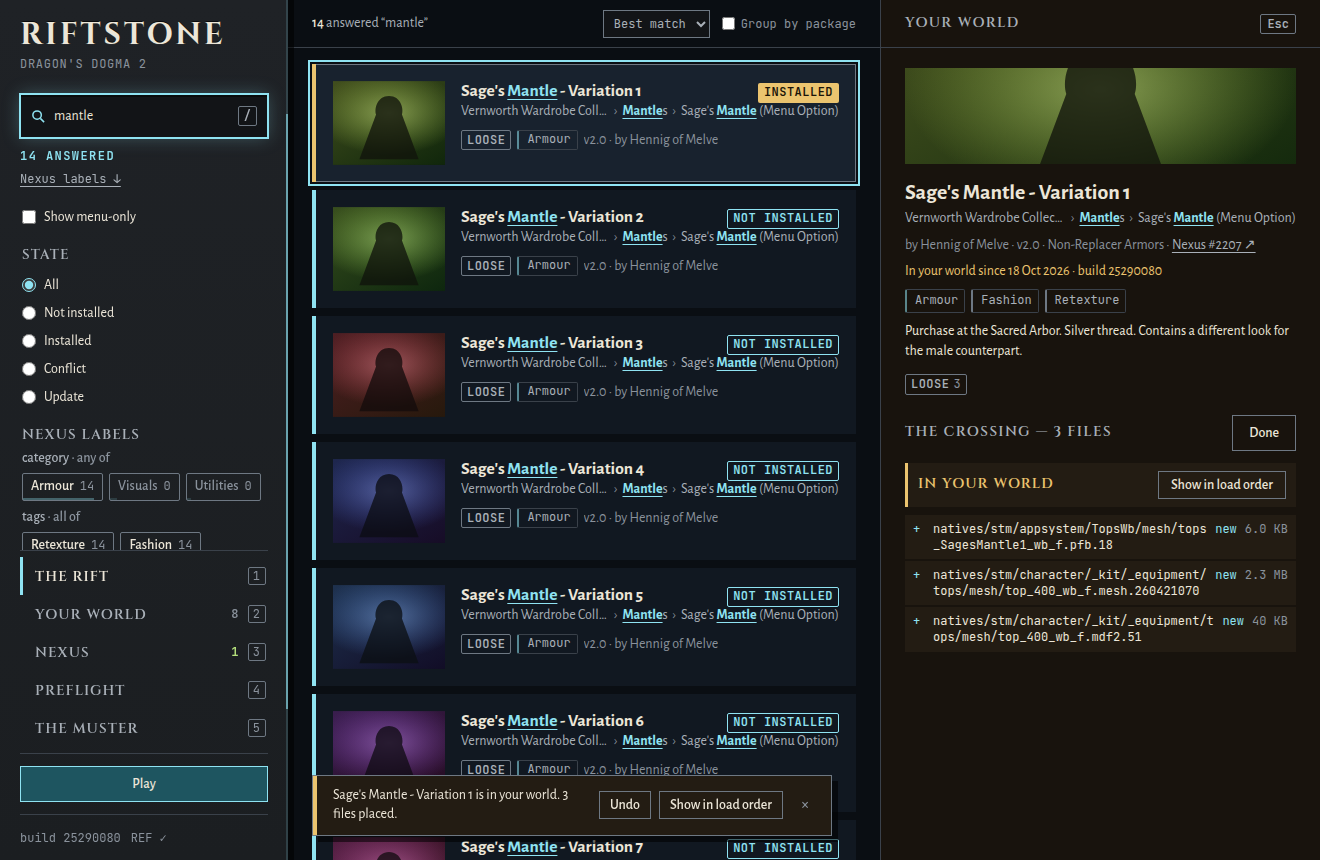
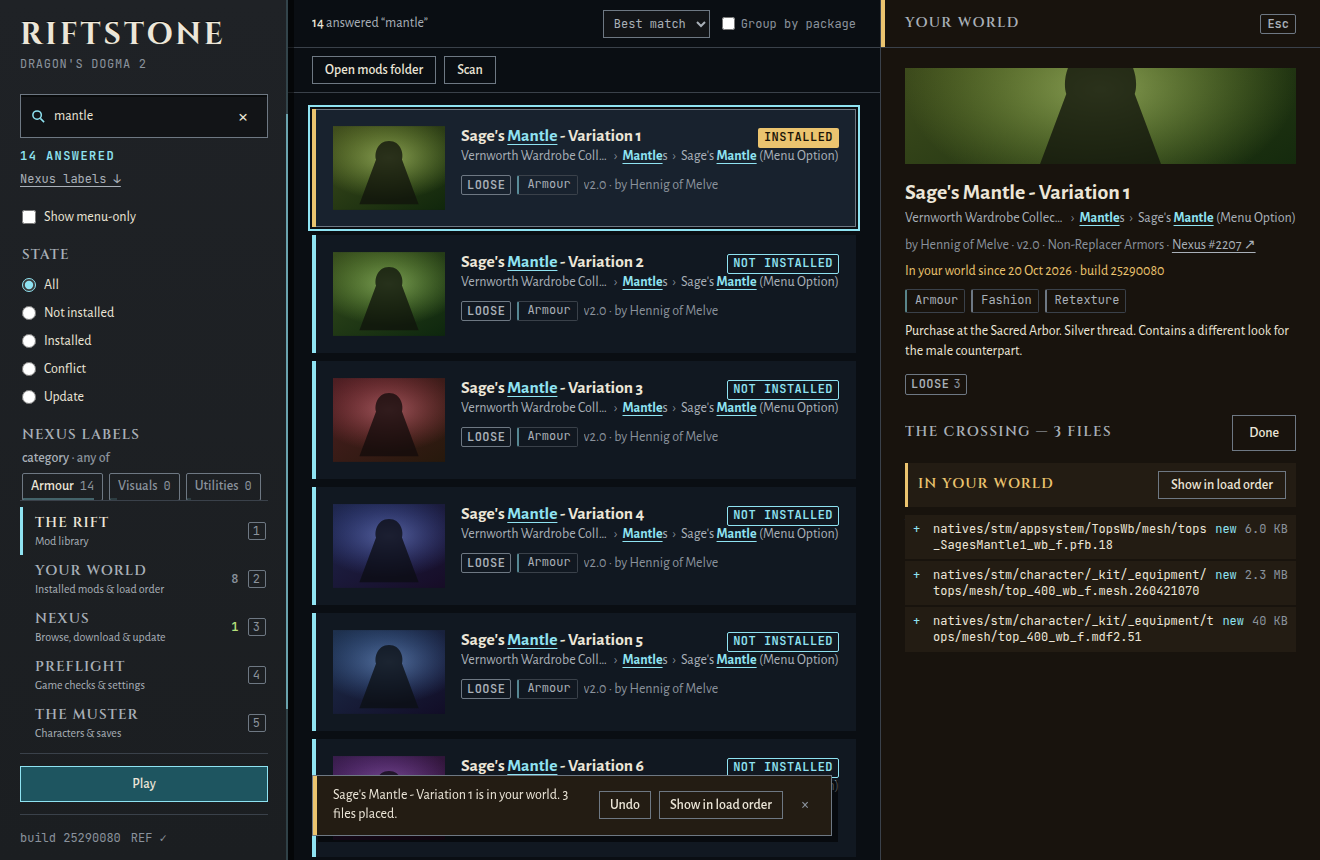
docs(riftstone): the Heretic's library tools join the window contract by the investor's ruling, round 2 is written down, and all nine README frames are shot again on the combined head
The investor ruled that the Heretic's 43652f1 features stay on v0.5, so the
contract catches up here. The General's seat holds the docs pen on this side and
the code on the Heretic's.

- WINDOW-CONTRACT § v0.5 gains "The Rift's library tools and filters, and
  answers in flight (window only)": the rooms' plain lines, Clear search, Open
  mods folder and Scan (the § v0.3 commands), the active-filter line and Clear
  filters keeping the query, NO MODS MATCH THESE FILTERS (state and menu-only;
  the labels keep THE LABELS HIDE EVERY ANSWER), the viewer's keys whatever holds
  the focus, and the selection rule, including a return to the same option before
  its write finishes. The Heretic read the rows against its code and sent four
  corrections, all applied. Following, in the Muster's rules, now names the
  slot that opens.
- BUILD-SPEC § v0.5 records the Heretic's pass (its open RS-A2 named), its
  round-2 fix 75ebf56, and the frames.
- README: all nine frames shot again from the mock (1320 × 860, 0 page errors,
  each looked at), since every one shows the pillar. Two alt texts name what is
  new in them.

Claude-Session: https://claude.ai/code/session_013U6VVnRmC24Bs8jAfqjsEu

diff --git a/docs/BUILD-SPEC.md b/docs/BUILD-SPEC.md
@@ -2703,13 +2703,43 @@ against the code they had left, and fixed what those specs found.
   threads resolved, and the specs for issues 1, 3 and 4 went red when their fixes were reverted.
   Three issues and one nit were left; two issues are on the Heretic's `43652f1` (the
   `useWorld` landing that returns before its detail reloads, and the lightbox's keys once focus
-  leaves it) and are the Heretic's to fix. Mine:
+  leaves it) and are the Heretic's, fixed in `75ebf56`: a return to the same option before its
+  write finishes now refreshes that option's detail without reviving the earlier plan, and the
+  viewer takes its keys whatever holds the focus, a click on the picture keeping it inside.
+  Four new checks in `roundTwoRegressions.spec.ts` failed at `43652f1`; a fifth, Esc with THE
+  VERSIONS card under the viewer, was already right and stays as a control. Mine:
   - **Round 1's family order was half fixed.** With X (uploaded 50), A (uploaded 100, which named
     B newer) and B (no upload time), recency gave A, X, B; A waited on B, so X went first and
     the oldest led. The order now lifts a named member's recency to its namer's, up a chain of
     proofs, before it sorts, so the pair sits together and the pass only settles ties. The
-    General's case and a three-step chain each failed at `43652f1`.
+    General's case and a three-step chain each failed at `43652f1`. Asked about cycles (two
+    checks at different times can name each other newer), two- and three-member cycles were
+    specced over every ordering of the input. The lift ends: it runs at most once per member and
+    only raises a member to a recency some member already has. The three-member cycle caught a
+    flaw in the pass: with every cycle member waiting on another, an older outsider went first.
+    The pass now runs one group of equal lifted recency at a time, so a cycle falls back to its
+    sorted order inside its own group, the same however the members are given.
   - **Nit: the lone shared name still asked for two packages that each hold only the same
     `config.json`.** The lone-name clause now counts only a name that is no settings or text
     file, so a one-pak or one-script mod's other version still asks. Its assertion failed
-    against the old clause.
+    against the old clause. The spine, the mock and WINDOW-CONTRACT each name the list, and
+    `settingsExtensions.spec.ts` reads all three and fails when they differ (seen failing on a
+    spine list missing one extension).
+- **The Heretic's usability pass** (`43652f1`, 2026-10-20, from its whole-app Assay at the lab
+  root, `documents/assessments/2026-10-20-riftstone.md`). The investor ruled it stays on v0.5
+  rather than splitting off. Window only: no command, event or type, and the library actions call
+  `open_mods_folder` and `rescan`. Each room in the pillar carries a plain line under its name.
+  The search well gains `Clear search`, and the Rift's answers gain `Open mods folder` and `Scan`,
+  a line reading the active filters with `Clear filters` (the query kept), and `NO MODS MATCH
+  THESE FILTERS` in place of an empty list. The screenshot viewer keeps the keyboard, and an
+  option's detail, plan and landing draw only on the selection that asked
+  (WINDOW-CONTRACT § v0.5, The Rift's library tools). Specs: `selectionLifetime.spec.ts` and
+  `libraryUsability.spec.ts`. The Assay's finding RS-A2 stays open in Known Limitations: a
+  collision rename moves the package before `nexus.json` saves its new id, so a failed save
+  loses a joined folder's family after a restart.
+- **The README frames, round 2** (2026-10-20): all nine shot again from the mock at 1320 × 860
+  on the combined head (`c69dba5` with the docs), 0 page errors each, and each looked at. Every
+  frame shows the pillar's new room lines; the Rift's frames show `Open mods folder` and `Scan`,
+  and the two search frames the `×` in the well. One thing the frames show that no spec states:
+  at 860 px the pillar's taller rooms push the Nexus tags below the fold of the filter column, so
+  only the categories show without a scroll.

diff --git a/docs/WINDOW-CONTRACT.md b/docs/WINDOW-CONTRACT.md
@@ -839,7 +839,46 @@ one character, and the slot menu tells their saves apart by level and time.
   `musterCharacter`, which is null too.
 - The window groups the slots by `character`, newest save first. A slot that would not open is
   listed apart, under its problem. The slot menu holds the character's slots, newest first.
-  - **Following:** on the newest slot, the sheet follows the character. When the game writes a
+  - **Following:** on the newest slot that opens (the newest, unless the game is writing it),
+    the sheet follows the character. Picking that slot from the menu keeps following. When the game writes a
     newer save of that character, in any slot, the sheet moves to it and is re-carved against the
     party it showed (members matched by `memberKey`).
   - **Pinned:** a slot picked from the menu stays, and the menu marks the newer save.
+
+### The Rift's library tools and filters, and answers in flight (window only)
+
+Added on this branch by the Heretic (`43652f1`) and kept on v0.5 by the investor. These rows are
+the window's alone: they add no command, event or type, and the two library actions call commands
+§ v0.3 already defines.
+
+- **The rooms say what they hold.** Each room in the pillar carries a plain line under its name:
+  THE RIFT *Mod library*, YOUR WORLD *Installed mods & load order*, NEXUS *Browse, download &
+  update*, PREFLIGHT *Game checks & settings*, THE MUSTER *Characters & saves*. The names and keys
+  `1`–`5` are unchanged.
+- **Clear search.** While the search well holds text, a `×` (`Clear search`) stands where the `/`
+  key hint stood. It empties the query and puts the focus back in the well.
+- **Library actions.** The Rift's answers, over a library that is there (not empty, the mods
+  folder not missing), carry `Open mods folder` (`open_mods_folder`) and `Scan` (`rescan`), each
+  busy while its command runs.
+- **Active filters.** While a state other than *All*, *Show menu-only* or a Nexus label filters
+  the answers, a line under the heading reads them, joined by ` · ` (*Update available ·
+  Menu-only included · Armour, carrying Fashion*), with `Clear filters`. It resets the state to
+  *All*, turns *Show menu-only* off and clears every category and tag; the typed query stays.
+  With no query, the heading reads `{n} options · filtered library` (or the label reading
+  instead of *filtered library* when labels filter).
+- **Filters that hide everything.** When a state filter or *Show menu-only* leaves no answer, the
+  Rift reads `NO MODS MATCH THESE FILTERS` instead of an empty list, with `Clear filters`
+  (Primary). Under *Update available* it says only mods with a newer file identified on Nexus
+  appear there and adds `Check on Nexus`. Nexus labels that leave no answer keep their own
+  inscription and its recovery, `THE LABELS HIDE EVERY ANSWER`, ahead of this one.
+- **The screenshot viewer keeps the keyboard.** While it is open, whatever holds the focus
+  (a click on the picture keeps it inside), Esc and Space close it, Left and Right step through
+  the pictures in the lookbook, Tab stays inside it, and the room keys never reach the app
+  behind it.
+- **An answer belongs to the selection that asked.** An option's detail, its plan and its landing
+  are drawn only on the option they were asked for. An answer that comes back after the player
+  opened another option never draws on that one. A landing that finished elsewhere is still told
+  in its toast, and the option shows its new state when it is opened again. When the player
+  returns to the same option before its install or uninstall finishes, the finish refreshes that
+  option's current detail; it never brings the earlier plan or landing back. THE VERSIONS card
+  follows the same rule by its card number (§ Versions of one file).

diff --git a/README.md b/README.md
@@ -2,7 +2,7 @@
 
 *Touch the stone and the Rift answers. Mods from other worlds wait inside; the stone shows you every one of them and pulls through the one you choose.*
 
-![The Riftstone at rest: the Rift opens on the tree of its mods folder, eleven packages with their formats and counts and the fold of three that won't answer above them, one collection open down to the variations of a cape, each marked with its kinds and whether it is in your world. Play waits on the stone.](docs/images/riftstone-tree.png)
+![The Riftstone at rest: the Rift opens on the tree of its mods folder, eleven packages with their formats and counts and the fold of three that won't answer above them, one collection open down to the variations of a cape, each marked with its kinds and whether it is in your world. Open mods folder and Scan sit above the tree, and each room in the pillar says what it holds. Play waits on the stone.](docs/images/riftstone-tree.png)
 
 The Riftstone is a Windows desktop mod manager for **Dragon's Dogma 2**. Its library is one folder: the `mods` folder beside the installed `riftstone.exe`. Put a mod there (zip, 7z, rar or a plain folder, nested as deep as the modder packed it) and the stone reads all of it: option names, descriptions, the menu trail a variant hides behind, and every file path inside the archives.
 
@@ -17,7 +17,7 @@ The Riftstone is a Windows desktop mod manager for **Dragon's Dogma 2**. Its lib
 - Give it your personal Nexus key and it shows your account, tracks and endorses mods, and downloads files straight into the mods folder: a newer version from the update list, any file of a mod, or a mod you found by browsing Nexus from the stone. A premium account downloads in the stone. A free account presses Nexus's own Mod Manager Download button, which reaches the stone once you turn on its link handler. A download lands in the mods folder; installing it stays your choice.
 
 <p>
-  <img src="docs/images/riftstone-answers.png" width="49%" alt="The Riftstone answering “mantle”: fourteen variants of two capes, the word lit wherever it matched in a name or a menu trail, every card carrying its kind, its Nexus category and NOT INSTALLED.">
+  <img src="docs/images/riftstone-answers.png" width="49%" alt="The Riftstone answering “mantle”: fourteen variants of two capes, the word lit wherever it matched in a name or a menu trail, every card carrying its kind, its Nexus category and NOT INSTALLED. A × in the search well clears the query.">
   <img src="docs/images/riftstone-crossing.png" width="49%" alt="A creation crossing into your world: Sage's Mantle - Variation 1 turns INSTALLED in gold, THE CROSSING carves its three files IN YOUR WORLD, and a toast offers Undo.">
 </p>
 <p>
